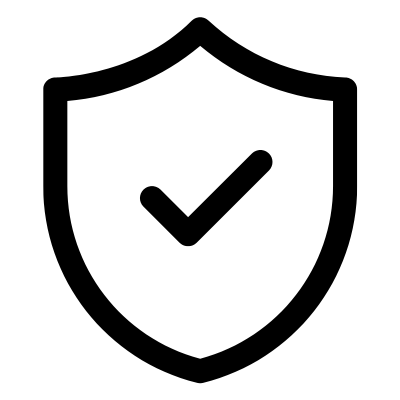
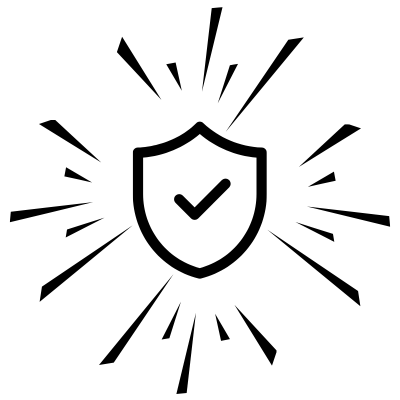
scaled down carousel images, added caption background for visibility, switched safety feature image, added comments throughout

diff --git a/index.html b/index.html
@@ -4,6 +4,7 @@
     <meta charset="UTF-8">
     <meta name="viewport" content="width=device-width, initial-scale=1.0">
     <title>Guitar Soup</title>
+    <!-- Favicon to display in tabs -->
     <link rel="icon" type="image/x-icon" href="./images/features/logo-favicon.png">
     <link href="https://cdn.jsdelivr.net/npm/bootstrap@5.3.3/dist/css/bootstrap.min.css" 
           rel="stylesheet" 
@@ -12,13 +13,17 @@
     <link rel="stylesheet" href="./styles/style.css">
 </head>
 <body>
+  <!-- Header for the navigation bar-->
     <header>
+      <!-- Bootstrap navbar -->
         <nav class="navbar navbar-expand-sm bg-body-tertiary">
             <div class="container-fluid">
               <a class="navbar-brand" href="#"><img class="logo" src="./images/features/logo.png" alt="logo">Guitar Soup</a>
               <button class="navbar-toggler" type="button" data-bs-toggle="collapse" data-bs-target="#headerMenu" aria-controls="headerMenu" aria-expanded="false" aria-label="Toggle navigation">
                 <span class="navbar-toggler-icon"></span>
               </button>
+
+              <!-- Relevant page links -->
               <div class="collapse navbar-collapse" id="headerMenu">
                 <ul class="navbar-nav">
                   <li class="nav-item">
@@ -36,36 +41,39 @@
           </nav>
     </header>
     <main>
+      <!-- Bootstrap carousel w/ prev & next arrows-->
         <div id="guitarMainBannerCaptions" class="carousel slide" data-bs-theme="dark">
             <div class="carousel-indicators">
               <button type="button" data-bs-target="#guitarMainBannerCaptions" data-bs-slide-to="0" class="active" aria-current="true" aria-label="Slide 1"></button>
               <button type="button" data-bs-target="#guitarMainBannerCaptions" data-bs-slide-to="1" aria-label="Slide 2"></button>
               <button type="button" data-bs-target="#guitarMainBannerCaptions" data-bs-slide-to="2" aria-label="Slide 3"></button>
             </div>
-            <div class="carousel-inner">
+            <!-- Carousel has three guitar images with taglines-->
+            <div class="carousel-inner bg-black">
               <div class="carousel-item active">
-                <img src="./images/carousel/carousel1.png" class="d-block w-100" alt="Whiskey Crooner">
+                <img src="./images/carousel/carousel1.png" class="d-block w-75 mx-auto" alt="Whiskey Crooner">
                 <div class="carousel-caption" style="color: white; text-shadow: 2px 2px black">
-                  <h5>Whiskey Crooner</h5>
+                  <h4>Whiskey Crooner</h5>
                   <p>Warm with a Smooth Buzz</p>
                 </div>
               </div>
               <div class="carousel-item">
-                <img src="./images/carousel/carousel2.png" class="d-block w-100" alt="City Lotus">
+                <img src="./images/carousel/carousel2.png" class="d-block w-75 mx-auto" alt="City Lotus">
                 <div class="carousel-caption" style="color: white; text-shadow: 2px 2px black">
-                  <h5>City Lotus</h5>
+                  <h4>City Lotus</h5>
                   <p>Sleek and Soulful</p>
                 </div>
               </div>
               <div class="carousel-item">
-                <img src="./images/carousel/carousel3.png" class="d-block w-100" alt="Vintage Cedar">
+                <img src="./images/carousel/carousel3.png" class="d-block w-75 mx-auto" alt="Vintage Cedar">
                 <div class="carousel-caption" style="color: white; text-shadow: 2px 2px black">
-                  <h5>Vintage Cedar</h5>
-                  <p>Distinctive Resonance across the Ages</p>
+                  <h4>Vintage Cedar</h5>
+                  <p>Distinctive Resonance Across the Ages</p>
                 </div>
               </div>
             </div>
-            <button class="carousel-control-prev bg-dark " type="button" data-bs-target="#guitarMainBannerCaptions" data-bs-slide="prev">
+            <!-- Carousel buttons-->
+            <button class="carousel-control-prev bg-dark" type="button" data-bs-target="#guitarMainBannerCaptions" data-bs-slide="prev">
               <span class="carousel-control-prev-icon" aria-hidden="true"></span>
               <span class="visually-hidden">Previous</span>
             </button>
@@ -75,7 +83,7 @@
             </button>
           </div>
 
-            <!-- Guitar Models-->
+            <!-- Guitar Models - a panel for each guitar w/ image, name and price info-->
           <section class="guitar-models-container-index my-5">
             <div class="guitar-model">
               <h2 style="text-align:center">Whiskey Crooner</h2>
@@ -116,7 +124,7 @@
         <section class="features-container">
             <div class="feature-box">
                 <h2>6-hour Battery Life</h2>
-                <p>Built-in battery lasts for 3+ encores.</p>
+                <p>Built-in battery lasts for 2+ encores.</p>
                 <img class="feature-image" src="./images/features/feature-battery.png" alt="Battery Life">
             </div>
             <div class="feature-box">
@@ -136,6 +144,7 @@
             </div>
         </section>
 
+        <!-- Call to action container w/ background image-->
         <section class="call-to-action-container">
             <h2>Flagship Guitar</h2>
             <p>Luxury meets Innovation</p>
@@ -144,6 +153,7 @@
         </section>
 
     </main>
+    <!-- Footer with nav links to other pages-->
     <footer>
         <nav>
             <ul class="footer-link-list">

diff --git a/guitars.html b/guitars.html
@@ -4,6 +4,7 @@
     <meta charset="UTF-8">
     <meta name="viewport" content="width=device-width, initial-scale=1.0">
     <title>Guitars - Guitar Soup</title>
+    <!-- Favicon for tabs-->
     <link rel="icon" type="image/x-icon" href="./images/features/logo-favicon.png">
     <link href="https://cdn.jsdelivr.net/npm/bootstrap@5.3.3/dist/css/bootstrap.min.css" 
           rel="stylesheet" 
@@ -12,6 +13,7 @@
     <link rel="stylesheet" href="./styles/style.css">
 </head>
 <body>
+  <!-- Bootstrap navbar in header-->
     <header>
         <nav class="navbar navbar-expand-sm bg-body-tertiary">
             <div class="container-fluid">
@@ -37,7 +39,7 @@
     </header>
     <main>
 
-            <!-- Guitar Models-->
+            <!-- Guitar Models organized in grid with image, title and buy container in left column, guitar descriptions in right column-->
           <section class="guitar-grid-container">
             <div class="guitar-grid-image">
               <h2 style="text-align:center">Whiskey Crooner</h2>
@@ -48,7 +50,7 @@
               </div>
             </div>
             <div class="guitar-text">
-              <!-- Guitar descriptions are AI generated-->
+              <!-- Colorful and informative descriptions of each guitar generated by AI -->
               <p>"Introducing <strong><em>The Whiskey Crooner</em></strong>, a guitar crafted for those late-night jam sessions and intimate bar performances. 
                 With its smooth, warm tones reminiscent of aged whiskey and a resonance that fills the room like a soulful croon, this instrument 
                 is your ticket to musical greatness. Handcrafted from the finest woods, it's built to withstand the test of time, just like your 
@@ -103,6 +105,7 @@
 
 
     </main>
+    <!-- Nav links in footer-->
     <footer>
         <nav>
             <ul class="footer-link-list">

diff --git a/contact.html b/contact.html
@@ -4,6 +4,7 @@
     <meta charset="UTF-8">
     <meta name="viewport" content="width=device-width, initial-scale=1.0">
     <title>Contact - Guitar Soup</title>
+    <!-- Tab favicon-->
     <link rel="icon" href="./images/features/logo-favicon.png" type="image/x-icon">
     <link href="https://cdn.jsdelivr.net/npm/bootstrap@5.3.3/dist/css/bootstrap.min.css" 
           rel="stylesheet" 
@@ -12,6 +13,7 @@
     <link rel="stylesheet" href="./styles/style.css">
 </head>
 <body>
+  <!-- Navbar in header-->
     <header>
         <nav class="navbar navbar-expand-sm bg-body-tertiary">
             <div class="container-fluid">
@@ -38,12 +40,12 @@
     <main>
 
         
-      
+        <!-- Form with three input areas for questions, name and email, with submit button & paired labels-->
         <form action="example.html" method="POST">
           <section class="form-format">
             <label for="questions">Any questions? Ask here!</label>
             <br style="margin: 5px">
-            <textarea id="questions" name="questions" rows="5" cols="50" placeholder="Enter your questions here..."></textarea>
+            <textarea id="questions" name="questions" rows="5" cols="50" placeholder="Enter your questions here..." required></textarea>
             <br style="margin: 5px">
             <label for="name">Also tell us your name:</label>
             <input type="text" id="name" name="name" required>
@@ -56,6 +58,7 @@
      
 
     </main>
+    <!-- Footer with navlinks-->
     <footer>
         <nav>
             <ul class="footer-link-list">

diff --git a/styles/style.css b/styles/style.css
@@ -9,13 +9,22 @@ body {
     background-image: linear-gradient(to bottom right, rgb(219, 255, 219), rgb(220, 231, 253));
     min-width: 400px;
     font-family: Roboto;
+
+/* Favicon styles */
+    .logo {
+        max-height: 2.5rem;
+    }
 }
 
 /* Carousel section */
 
-.logo {
-    max-height: 2.5rem;
+.carousel-caption {
+    
+    background-color:rgba(0, 0, 0, 0.4);
+    font-size: 25px;
+
 }
+
 
 /* Guitar models section */
 
@@ -39,6 +48,7 @@ body {
     transition-duration: .2s;
 }
 
+/* Buy container also on Guitars page */
 .buy-container {
     margin: 1rem 1.5rem;
     display: flex;
@@ -115,6 +125,7 @@ body {
 }
 
 
+/* Feature box width changes on larger screens */
 
 @media screen and (min-width: 768px) {
     .feature-box {
@@ -139,8 +150,6 @@ body {
 
 }
 
-
-
 /* Footer */
 
 .footer-link-list {
@@ -157,6 +166,7 @@ body {
 
 }
 
+/* Footer direction changes depending on screen width */
 @media screen and (min-width: 768px) {
     .footer-link-list {
         flex-direction: row;
